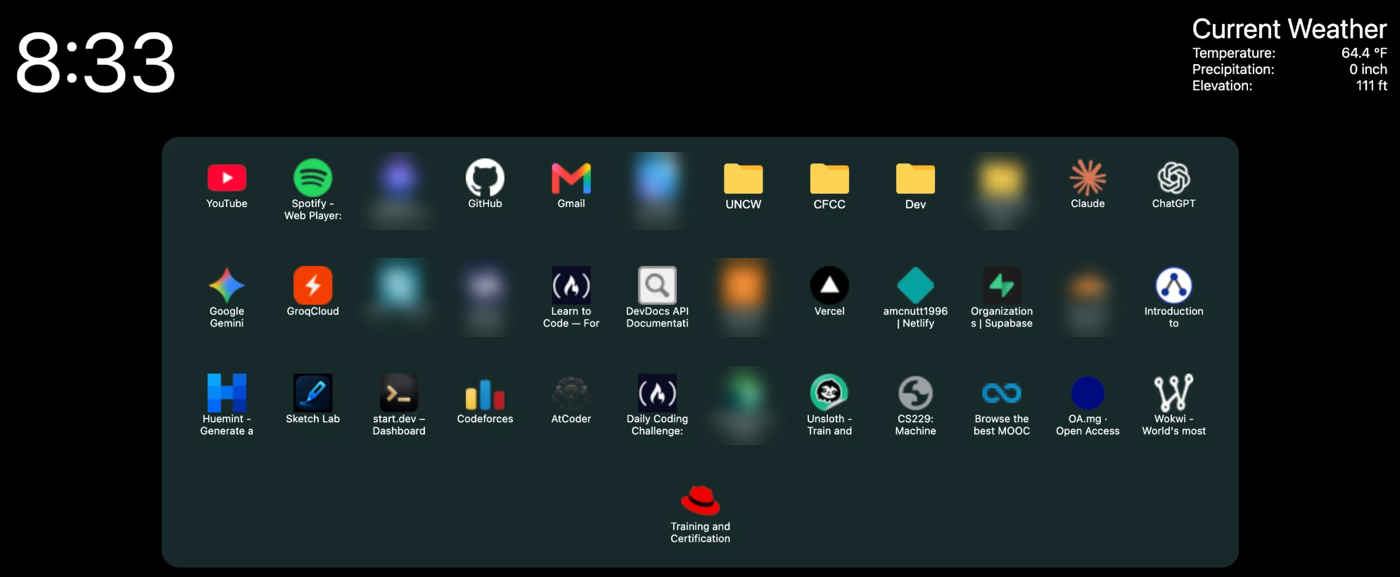
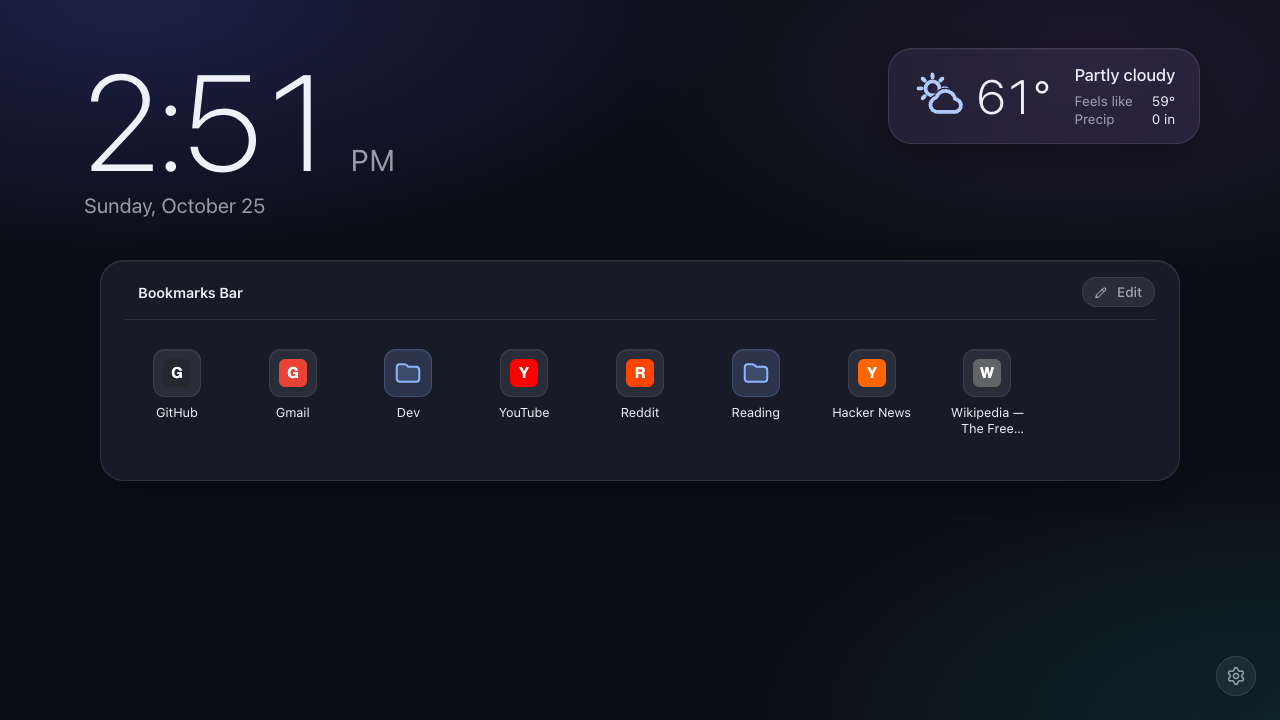
update readme and screenshots for breadcrumbs, bookmark editing and settings; ignore .claude

diff --git a/README.md b/README.md
@@ -1,27 +1,41 @@
 # Chromium Bookmarks New Tab
 
-A Manifest V3 browser extension that replaces the Chromium new tab page with your Bookmarks Bar in the middle of the screen, Safari-style, plus a clock and local weather.
+A Manifest V3 browser extension that replaces the Chromium new tab page with your Bookmarks Bar in the middle of the screen, Safari-style, plus a clock, local weather, and a theme you can customize.
 
 ![Screenshot of the custom new tab page](docs/screenshot.png)
 
-![Opening a bookmarks folder, with a Back button](docs/screenshot-folder.png)
+![Editing a bookmarks folder, with breadcrumbs, remove badges and an Add tile](docs/screenshot-folder.png)
+
+![The settings panel with theme presets and color pickers](docs/screenshot-settings.png)
 
 I got frustrated that Brave's new tab page couldn't put my bookmarks front and center the way Safari does, so I built this to override it.
 
 ## What it does
 - Shows everything on your **Bookmarks Bar** as a grid with favicons.
-- Lets you open folders and step back out with a back button.
+- Lets you open folders and jump back to any parent with a breadcrumb trail.
+- Lets you manage bookmarks right on the page. Changes go to your real Bookmarks Bar, so they show up in the browser and sync like any other bookmark edit:
+  - **Edit** mode adds bookmarks or folders, and removes items (with a confirmation).
+  - Drag a tile to reorder it, drop it on a folder to move it inside, or drop it on a breadcrumb to move it up a level.
+  - Right-click a tile to rename it or edit its URL.
+- Has a **settings** panel (gear button, bottom right):
+  - Theme presets, plus color pickers for the background, text, accent, panels, background glows and delete/error color.
+  - Sliders for glow strength, panel opacity and blur, bookmark size and corner roundness.
+  - 12/24-hour clock, show/hide the date and weather, and °F/°C.
+  - Settings sync across your devices via `chrome.storage.sync`.
 - Shows a live clock and the current weather for your approximate location.
 - Works in any Chromium browser (Brave, Chrome, Edge, …).
 
 ## Tech stack
-Vanilla JavaScript (ES modules) · HTML/CSS · Chrome Extensions Manifest V3 (`chrome_url_overrides`, `bookmarks`, `favicon`) · ip-api.com · Open-Meteo
+Vanilla JavaScript (ES modules) · HTML/CSS · Chrome Extensions Manifest V3 (`chrome_url_overrides`, `bookmarks`, `storage`, `favicon`) · ip-api.com · Open-Meteo
 
 ## How it works
 - `manifest.json` overrides `newtab` with `customHome.html` and requests the `bookmarks`, `storage` and `favicon` permissions.
-- `bookmarks.js` reads the tree with `chrome.bookmarks.getTree()` and builds the grid from the Bookmarks Bar node. Folders re-render the grid with their children and keep a back stack.
+- `bookmarks.js` finds the Bookmarks Bar with `chrome.bookmarks.getTree()`, tracks the current folder path for the breadcrumbs, and renders the folder's children with `chrome.bookmarks.getChildren()`. Adding, removing, renaming and moving call `create`, `remove`/`removeTree`, `update` and `move`. The grid re-renders on the `chrome.bookmarks` change events, so edits made elsewhere in the browser show up too.
 - Favicons come from the extension's built-in `/_favicon/` endpoint, so the page never fetches from the sites themselves.
-- `weather.js` gets an approximate location from ip-api.com, then fetches current conditions from Open-Meteo. Neither API needs a key.
+- `settings.js` builds the settings panel, saves to `chrome.storage.sync`, and applies the theme by setting a handful of CSS custom properties on `:root`. `customHome.css` derives every other shade (hover states, borders, muted text) from those with `color-mix()`.
+- `theme-boot.js` is a tiny non-module script in `<head>` that applies a `localStorage` copy of the theme before first paint, so the page never flashes the default colors.
+- `weather.js` gets an approximate location from ip-api.com, then fetches current conditions from Open-Meteo in your chosen unit. Neither API needs a key.
+- `customHome.js` wires it together and runs the clock; `icons.js` holds the inline SVG icons.
 
 ## Install (load unpacked)
 1. `git clone https://github.com/amcnutt1996/chromium-bookmarks-newtab.git`
